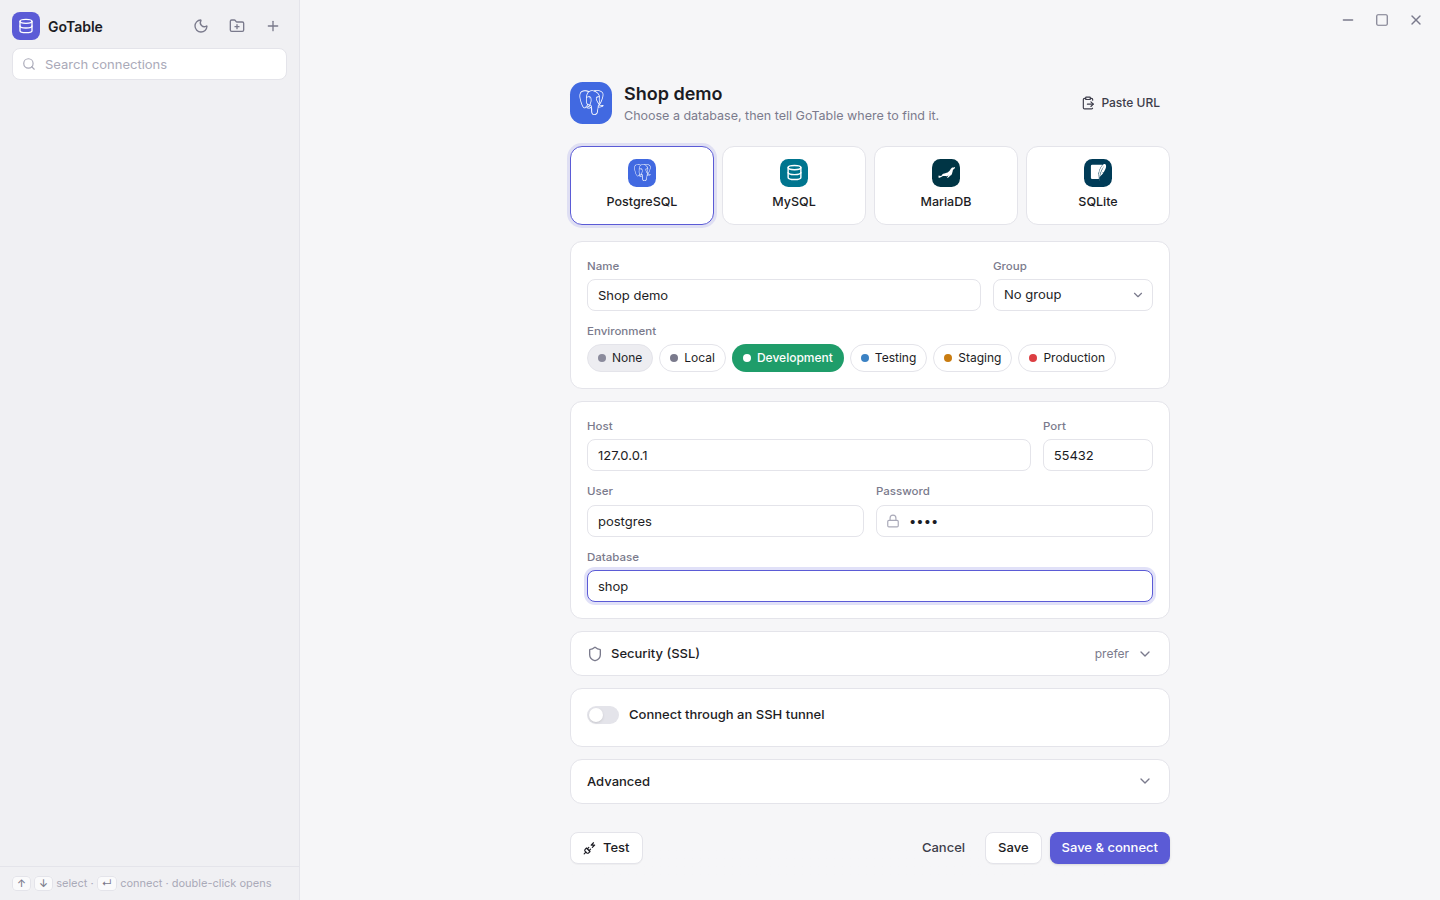
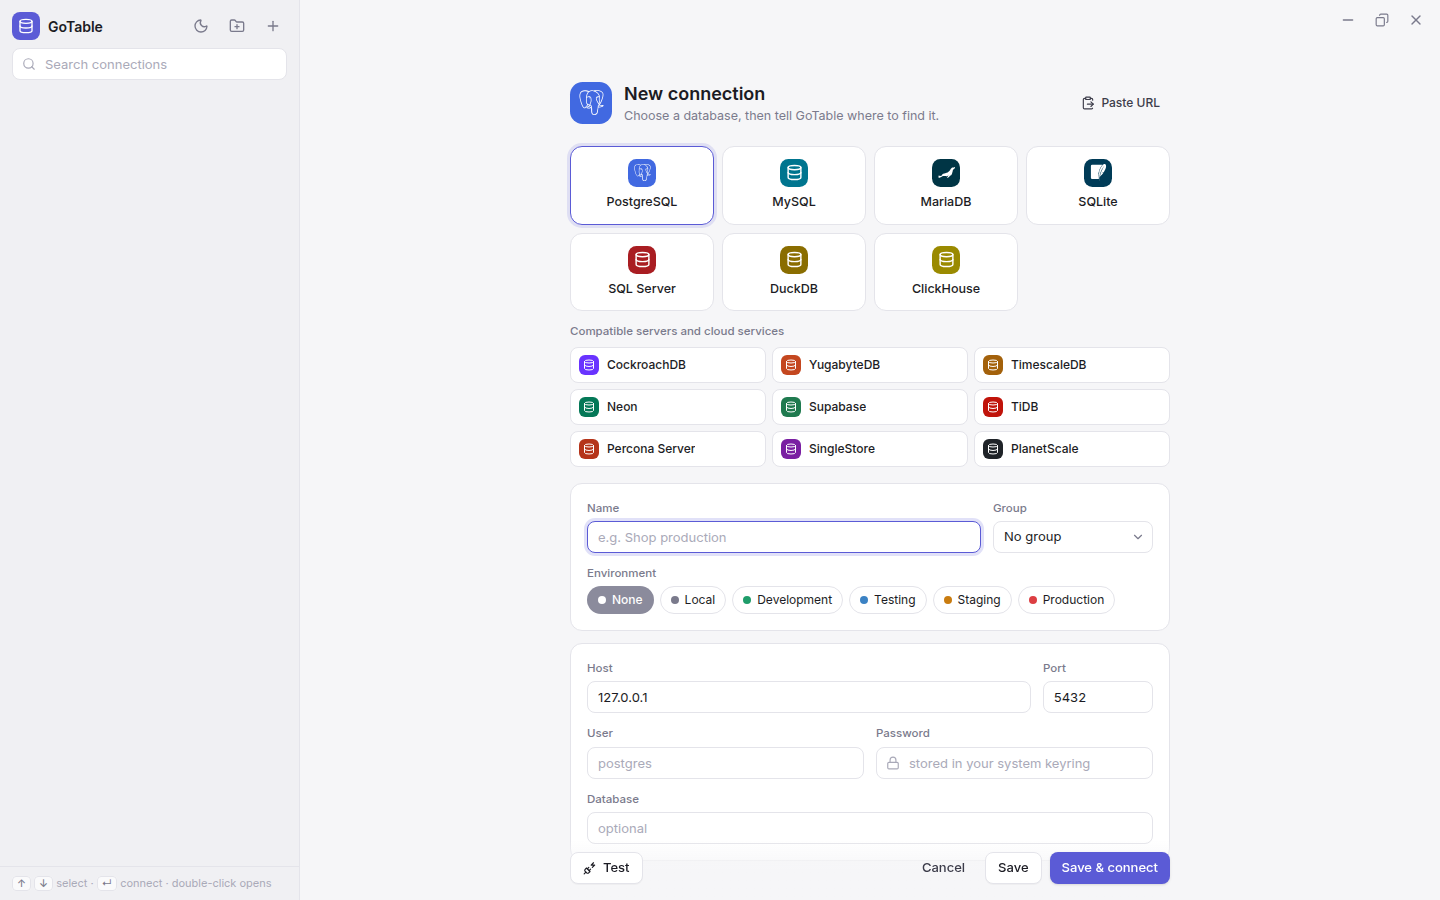
Screenshots: retake them, with a script to do it again
The README screenshots (docs/screenshots/{light,dark}) showed the old
four-database connection picker. They are retaken in both themes: the
picker with every database and the compatible servers, a tested
connection, the workspace, a table, filters with an edit and the row
inspector, the command palette, a query, and the table designer.

frontend/e2e/screenshots.spec.ts takes them from a fresh GoTable per
theme (opt-in: GOTABLE_SCREENSHOTS and GOTABLE_SCREENSHOT_PG), with the
data of scripts/screenshot-demo.sql, so they can be refreshed with one
command. The welcome screen now names all the databases.

diff --git a/frontend/e2e/screenshots.spec.ts b/frontend/e2e/screenshots.spec.ts
@@ -1,0 +1,138 @@
+import { expect, test, type Page } from '@playwright/test'
+import { spawn, type ChildProcess } from 'node:child_process'
+import { mkdirSync, mkdtempSync } from 'node:fs'
+import { tmpdir } from 'node:os'
+import { dirname, join, resolve } from 'node:path'
+import { fileURLToPath } from 'node:url'
+
+// Takes the README screenshots (docs/screenshots/{light,dark}/NN-*.png), in
+// both themes, from a fresh GoTable each. Needs a PostgreSQL database with
+// scripts/screenshot-demo.sql loaded:
+//
+//   GOTABLE_SCREENSHOTS=../docs/screenshots \
+//   GOTABLE_SCREENSHOT_PG=postgres://postgres:pw@127.0.0.1:5432/shop \
+//   npx playwright test e2e/screenshots.spec.ts
+const out = process.env.GOTABLE_SCREENSHOTS
+const pg = process.env.GOTABLE_SCREENSHOT_PG
+
+async function start(): Promise<{ proc: ChildProcess; url: string }> {
+  const dir = mkdtempSync(join(tmpdir(), 'gotable-shots-'))
+  const bin = resolve(dirname(fileURLToPath(import.meta.url)), '../../bin/gotable')
+  const proc = spawn(bin, ['-no-window', '-no-keyring', '-config', join(dir, 'connections.json'), '-addr', '127.0.0.1:0'], { stdio: ['ignore', 'pipe', 'inherit'] })
+  const url = await new Promise<string>((ok, fail) => {
+    const t = setTimeout(() => fail(new Error('gotable did not start')), 10_000)
+    proc.stdout!.on('data', (b: Buffer) => { const m = /(http:\/\/\S+)/.exec(b.toString()); if (m) { clearTimeout(t); ok(m[1]) } })
+  })
+  return { proc, url }
+}
+
+for (const theme of ['light', 'dark'] as const) {
+  test(`screenshots (${theme}) (needs GOTABLE_SCREENSHOTS)`, async ({ browser }) => {
+    test.skip(!out || !pg, 'set GOTABLE_SCREENSHOTS to the output folder and GOTABLE_SCREENSHOT_PG to the demo database')
+    test.setTimeout(120_000)
+    const dir = resolve(out!, theme)
+    mkdirSync(dir, { recursive: true })
+    const { proc, url } = await start()
+    const page = await browser.newPage({ viewport: { width: 1440, height: 900 }, colorScheme: theme })
+    // Draw the window's own title bar and buttons, as the desktop app does.
+    await page.route('**/api/native', (r) => r.fulfill({ json: { dialogs: true, window: true } }))
+    const shot = async (name: string) => {
+      await page.mouse.move(1439, 899) // no hover effects
+      await page.waitForTimeout(350) // animations settle
+      await page.screenshot({ path: join(dir, `${name}.png`) })
+    }
+    try {
+      await scenes(page, url, shot)
+    } finally {
+      await page.close()
+      proc.kill()
+    }
+  })
+}
+
+async function scenes(page: Page, url: string, shot: (name: string) => Promise<void>) {
+  const u = new URL(pg!)
+  await page.goto(url)
+  await expect(page.getByText('Welcome to GoTable')).toBeVisible()
+  await shot('01-welcome')
+
+  // The connection form: every database, then a tested connection.
+  await page.keyboard.press('Control+n')
+  const form = page.getByLabel('Connection form')
+  await shot('02-form')
+  await form.getByPlaceholder('e.g. Shop production').fill('Shop demo')
+  await form.getByRole('radio', { name: 'Development' }).click()
+  await form.getByRole('textbox', { name: 'Host' }).fill(u.hostname)
+  await form.getByRole('textbox', { name: 'Port' }).fill(u.port || '5432')
+  await form.getByRole('textbox', { name: 'User' }).fill(decodeURIComponent(u.username))
+  await form.getByLabel('Password').fill(decodeURIComponent(u.password))
+  await form.getByRole('textbox', { name: 'Database' }).fill(u.pathname.slice(1))
+  await form.getByRole('button', { name: 'Test' }).click()
+  await expect(form.getByRole('status')).toContainText('Connected successfully')
+  await form.getByRole('status').scrollIntoViewIfNeeded()
+  await shot('03-form-tested')
+
+  // The workspace, then a table.
+  await form.getByRole('button', { name: 'Save & connect' }).click()
+  await expect(page.getByText('Jump anywhere')).toBeVisible()
+  await shot('04-workspace')
+  const sidebar = page.getByRole('navigation', { name: 'Tables' })
+  await sidebar.getByRole('button', { name: 'customers', exact: true }).click()
+  const view = page.getByTestId('data-customers')
+  await expect(view.getByRole('gridcell').first()).toBeVisible()
+  await shot('05-table')
+
+  // Filters, an edit waiting to be committed, and the row inspector.
+  await view.getByRole('button', { name: /^Filter/ }).click()
+  await view.getByLabel('Raw WHERE').fill("created_at > now() - interval '7 days'").catch(() => {})
+  const city = view.locator('[data-row="0"] [data-col="3"]')
+  await city.dblclick()
+  await page.keyboard.press('Control+a')
+  await page.keyboard.type('Paris (VIP)')
+  await page.keyboard.press('Enter')
+  await view.locator('[data-row="0"] [data-col="1"]').click()
+  await expect(view.getByText('1 unsaved change')).toBeVisible()
+  await shot('06-edit-filter')
+
+  // The command palette.
+  await page.keyboard.press('Control+k')
+  await page.getByLabel('Search commands').fill('ord')
+  await shot('07-palette')
+  await page.keyboard.press('Escape')
+
+  // A query and its result.
+  await page.keyboard.press('Control+t')
+  const editor = page.getByTestId('sql-editor').last().locator('.cm-content')
+  await editor.click()
+  await editor.fill('SELECT c.city, count(*) AS orders, sum(o.total) AS revenue\nFROM orders o\nJOIN customers c ON c.id = o.customer_id\nWHERE c.city IS NOT NULL\nGROUP BY c.city\nORDER BY revenue DESC;')
+  await page.keyboard.press('Control+Enter')
+  await expect(page.getByText(/5 row\(s\) returned|Result 1/).first()).toBeVisible()
+  await shot('08-query')
+
+  // The table designer.
+  await page.getByRole('button', { name: 'New table' }).click()
+  const designer = page.getByLabel('New table form')
+  await designer.getByLabel('Table name').fill('invoices')
+  await designer.getByLabel('Table comment').fill('Invoices sent to customers')
+  const add = async (name: string, type: string) => {
+    await designer.getByRole('button', { name: /Add a column/ }).click()
+    const names = designer.getByLabel('Column name')
+    await names.last().fill(name)
+    await designer.getByLabel('Column type').last().selectOption({ label: type }).catch(async () => {
+      await designer.getByLabel('Column type').last().fill(type)
+    })
+  }
+  const names = designer.getByLabel('Column name')
+  await names.nth(1).fill('customer_id')
+  await designer.getByLabel('Column type').nth(1).selectOption({ label: 'integer' }).catch(() => {})
+  await designer.getByLabel('Index').nth(1).selectOption('index')
+  await add('amount', 'numeric')
+  await add('status', 'text')
+  await designer.getByLabel('Default kind').last().selectOption('value')
+  await designer.getByLabel('Default value').last().fill('open')
+  await add('issued_at', 'timestamptz')
+  await designer.getByLabel('Default kind').last().selectOption('expression')
+  await designer.getByLabel('Default value').last().fill('now()')
+  await designer.getByLabel('Table name').click()
+  await shot('09-new-table')
+}

diff --git a/frontend/src/views/Home.tsx b/frontend/src/views/Home.tsx
@@ -200,7 +200,7 @@ export function Home({ connections, groups, reload, onConnect, connecting, theme
             </>}>
             {connections.length
               ? 'Select a connection on the left to edit it, or double-click it to connect.'
-              : 'Connect to PostgreSQL, MySQL, MariaDB or SQLite. Passwords are kept in your system keyring, never in plain files.'}
+              : 'Connect to PostgreSQL, MySQL, MariaDB, SQLite, SQL Server, DuckDB, ClickHouse and the servers compatible with them. Passwords are kept in your system keyring, never in plain files.'}
           </EmptyState>
         )}
       </main>

diff --git a/README.md b/README.md
@@ -244,6 +244,15 @@ GOTABLE_E2E_PG=postgres://user:pw@host/db make e2e   # adds a Postgres scenario
 GOTABLE_E2E_COMPAT="sqlserver://… clickhouse://… duckdb:///tmp/x.duckdb" make e2e  # one UI scenario per URL
 ```
 
+The screenshots in `docs/screenshots/` are taken by
+`frontend/e2e/screenshots.spec.ts` from a PostgreSQL database loaded with
+`scripts/screenshot-demo.sql`:
+
+```sh
+cd frontend && GOTABLE_SCREENSHOTS=../docs/screenshots \
+  GOTABLE_SCREENSHOT_PG=postgres://postgres:pw@127.0.0.1:5432/shop npx playwright test e2e/screenshots.spec.ts
+```
+
 
 ## Continuous integration and releases
 
